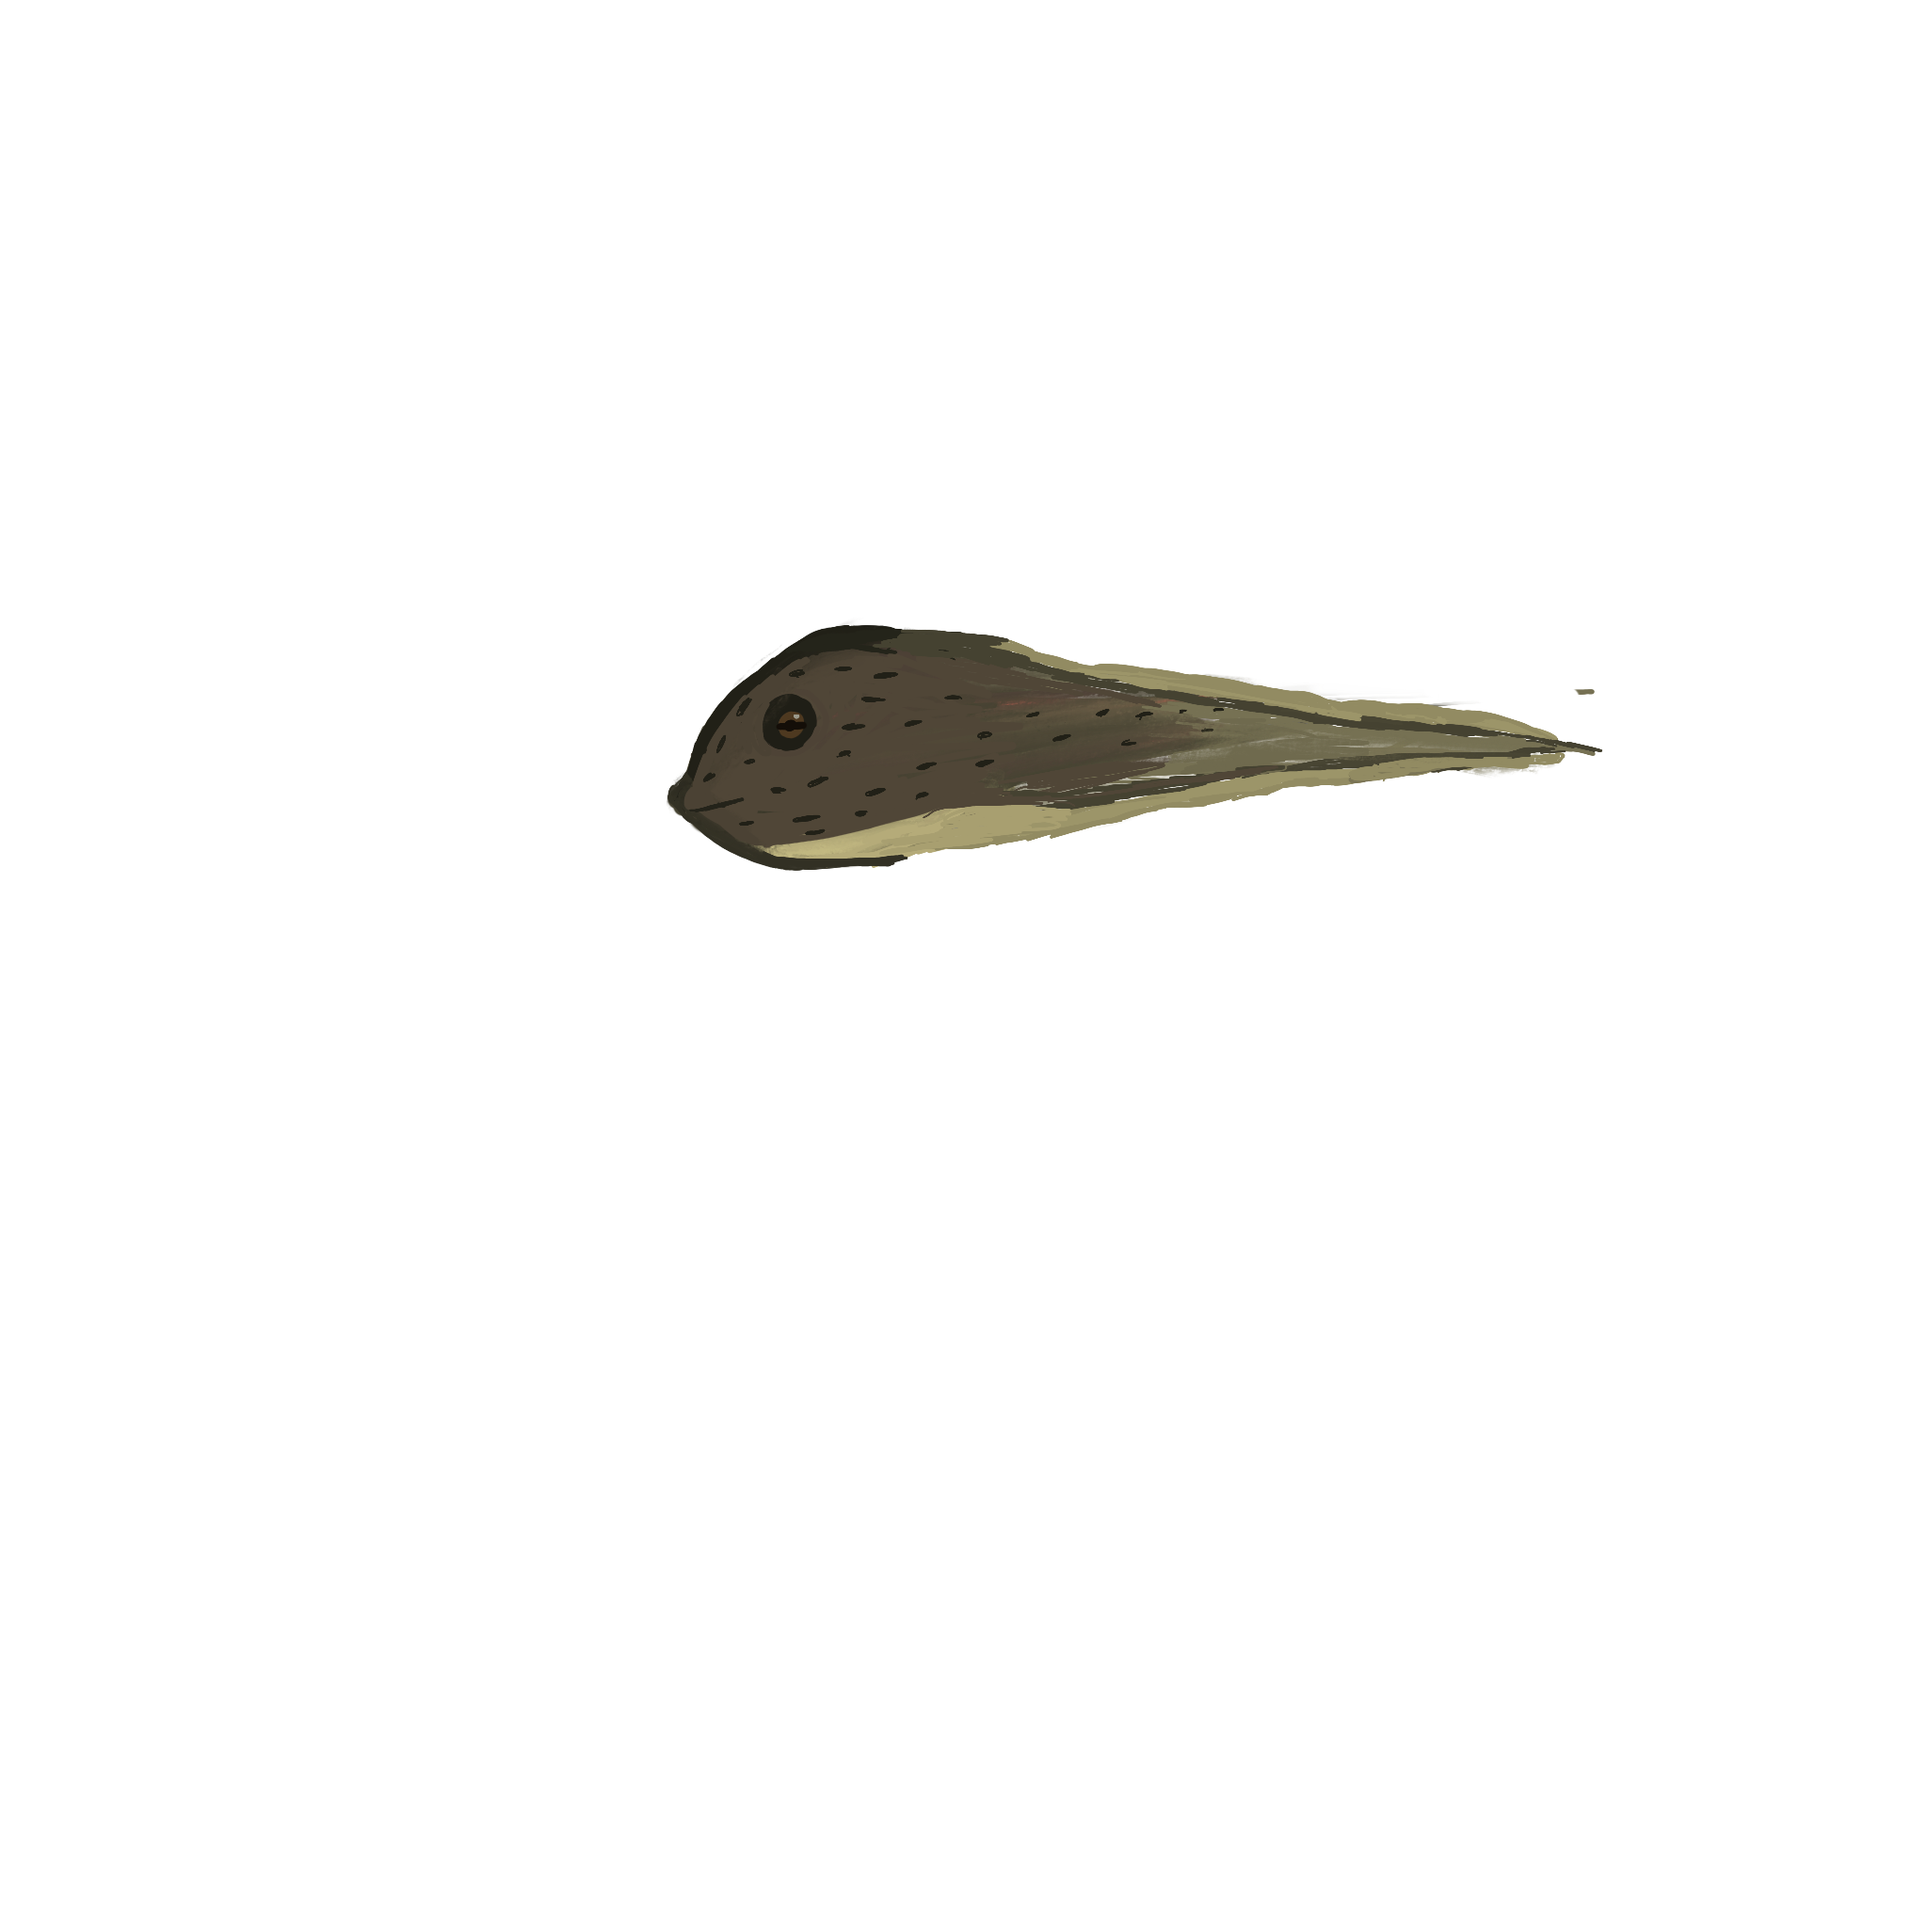
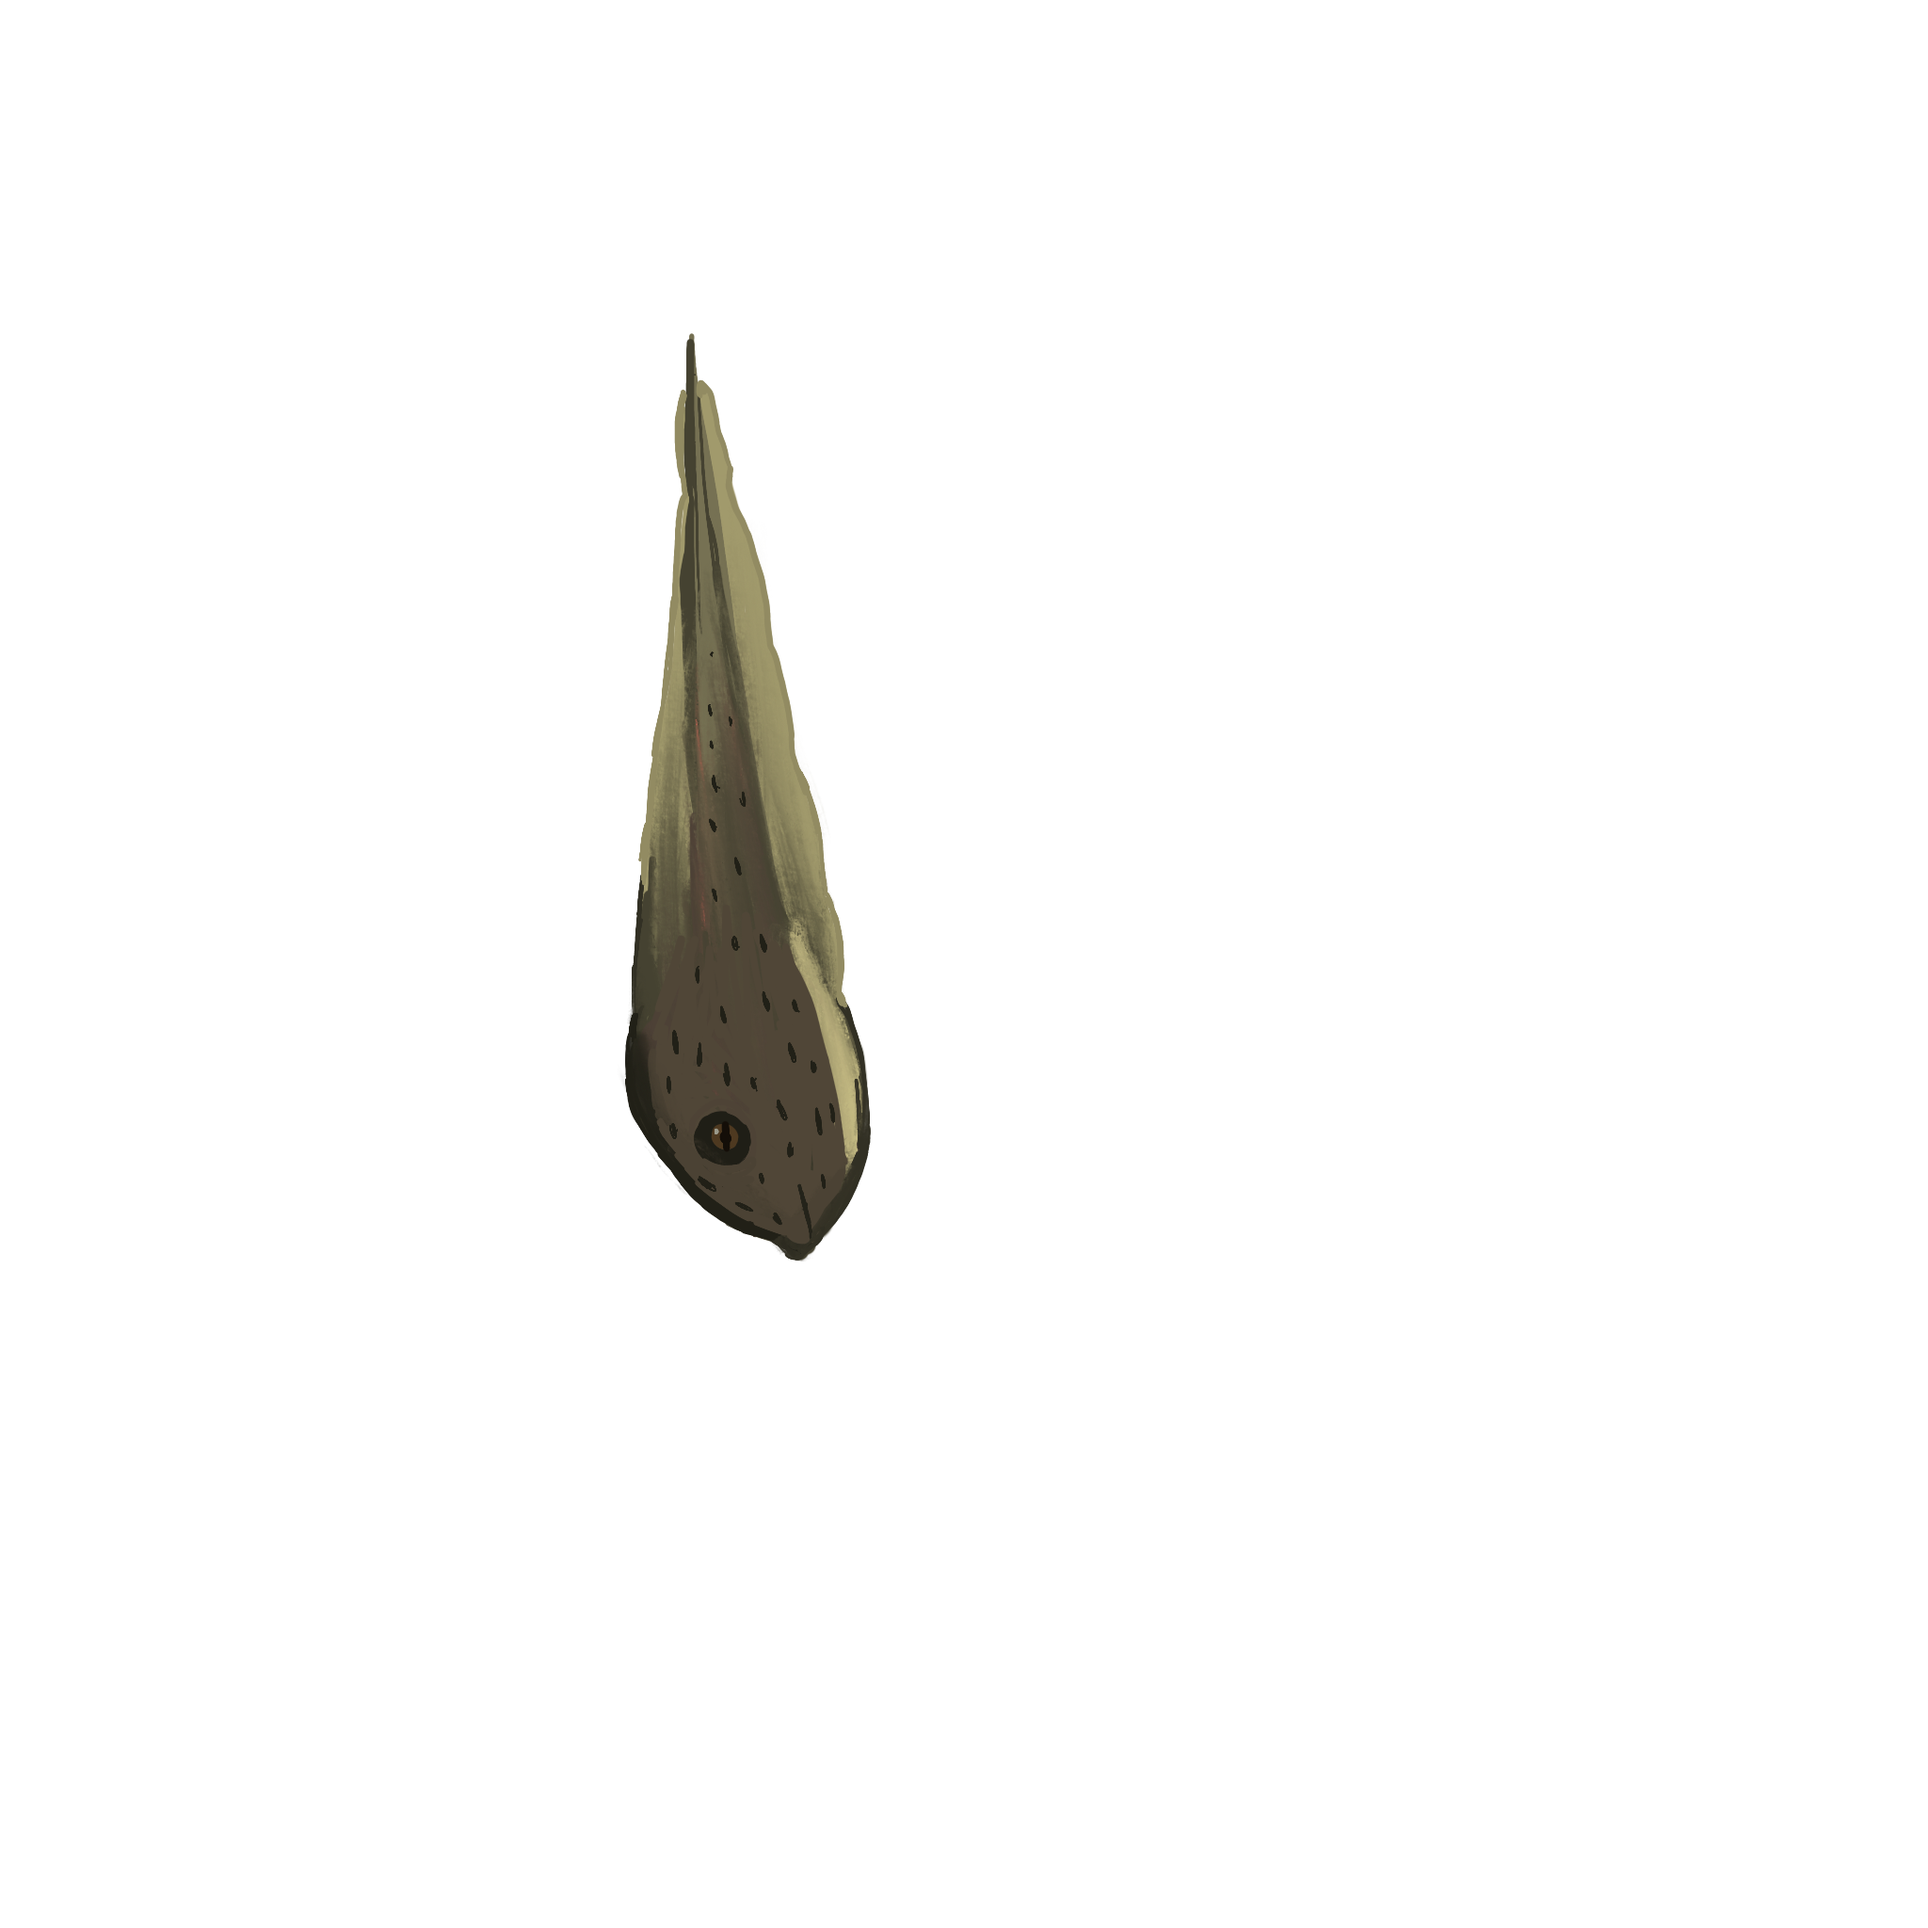
Tadpole rotation

Changed region(s): [[0.3125, 0.1875, 0.8125, 0.6562]]

diff --git a/Assets/Scripts/PlayerController.cs b/Assets/Scripts/PlayerController.cs
@@ -22,12 +22,12 @@ public class PlayerController : MonoBehaviour
     [SerializeField] private Sprite sittingLeft;
     [SerializeField] private Sprite jumpingRight;
     [SerializeField] private Sprite jumpingLeft;
+    [SerializeField] private Sprite tadpoleRight;
+    [SerializeField] private Sprite tadpoleLeft;
     [SerializeField] private Sprite tadpoleUp;
     [SerializeField] private Sprite tadpoleDown;
-    [SerializeField] private Sprite tadpoleMid;
-    [SerializeField] private bool tadpoleAnim;
-
-    [SerializeField] private float tadpoleAnimTime; // time to wait between each tadpole animation change in seconds
+    
+    [SerializeField] private float tadpoleAnimTime; // time to wait for one full cycle
     [SerializeField] private float powerRatio;
     [SerializeField] private int greenFloor;
 
@@ -92,41 +92,46 @@ public class PlayerController : MonoBehaviour
                 }
                 else if (!frog.isGrounded && !facingRight)
                 {
-                    view.RPC("ChangeSprite", RpcTarget.AllBuffered, 3);
+                   view.RPC("ChangeSprite", RpcTarget.AllBuffered, 3);
                 }
             }
 
             else
             {
-                if (!tadpoleAnim)
+                if (Mathf.Abs(rb.velocity.x) >= Mathf.Abs(rb.velocity.y))
                 {
-                tadpoleAnim = true;
-                
-                //StartCoroutine(TadpoleSpriteCoroutine());
+                    // move horizontal
+                    if (facingRight)
+                    {
+                        //right
+                        view.RPC("ChangeSprite", RpcTarget.AllBuffered, 4);
+                    }
+
+                    else
+                    {
+                        //left
+                        view.RPC("ChangeSprite", RpcTarget.AllBuffered, 5);
+                    }
+                }
+
+                else
+                {
+                    // move vertical
+
+                    if (rb.velocity.y > 0)
+                    {
+                        // up
+                        view.RPC("ChangeSprite", RpcTarget.AllBuffered, 6);
+                    }
+
+                    else
+                    {
+                        //down
+                        view.RPC("ChangeSprite", RpcTarget.AllBuffered, 7);
+                    }
                 }
             }
         }
-    }
-
-    public IEnumerator TadpoleSpriteCoroutine(int state)
-    {
-        if (state == 4)
-        {
-            
-        }
-        else if (state == 5)
-        {
-            
-        }
-        
-        else if (state == 6)
-        {
-            
-        }
-
-        yield return new WaitForSeconds(tadpoleAnimTime);
-        
-        tadpoleAnim = false;
     }
 
     private void OnTriggerEnter(Collider other)
@@ -244,7 +249,23 @@ public class PlayerController : MonoBehaviour
         }
         else if (state == 4)
         {
-            playerImage.sprite = tadpoleMid;
+            playerImage.sprite = tadpoleRight;
         }
+        
+        else if (state == 5)
+        {
+            playerImage.sprite = tadpoleLeft;
+        }
+        
+        else if (state == 6)
+        {
+            playerImage.sprite = tadpoleUp;
+        }
+        
+        else if (state == 7)
+        {
+            playerImage.sprite = tadpoleDown;
+        }
+        
     }
 }

diff --git a/Assets/Scripts/TadpoleController.cs b/Assets/Scripts/TadpoleController.cs
@@ -2,6 +2,7 @@ using System.Collections;
 using System.Collections.Generic;
 using UnityEngine;
 using Photon.Pun;
+using UnityEditorInternal;
 
 public class TadpoleController : MonoBehaviour
 {
